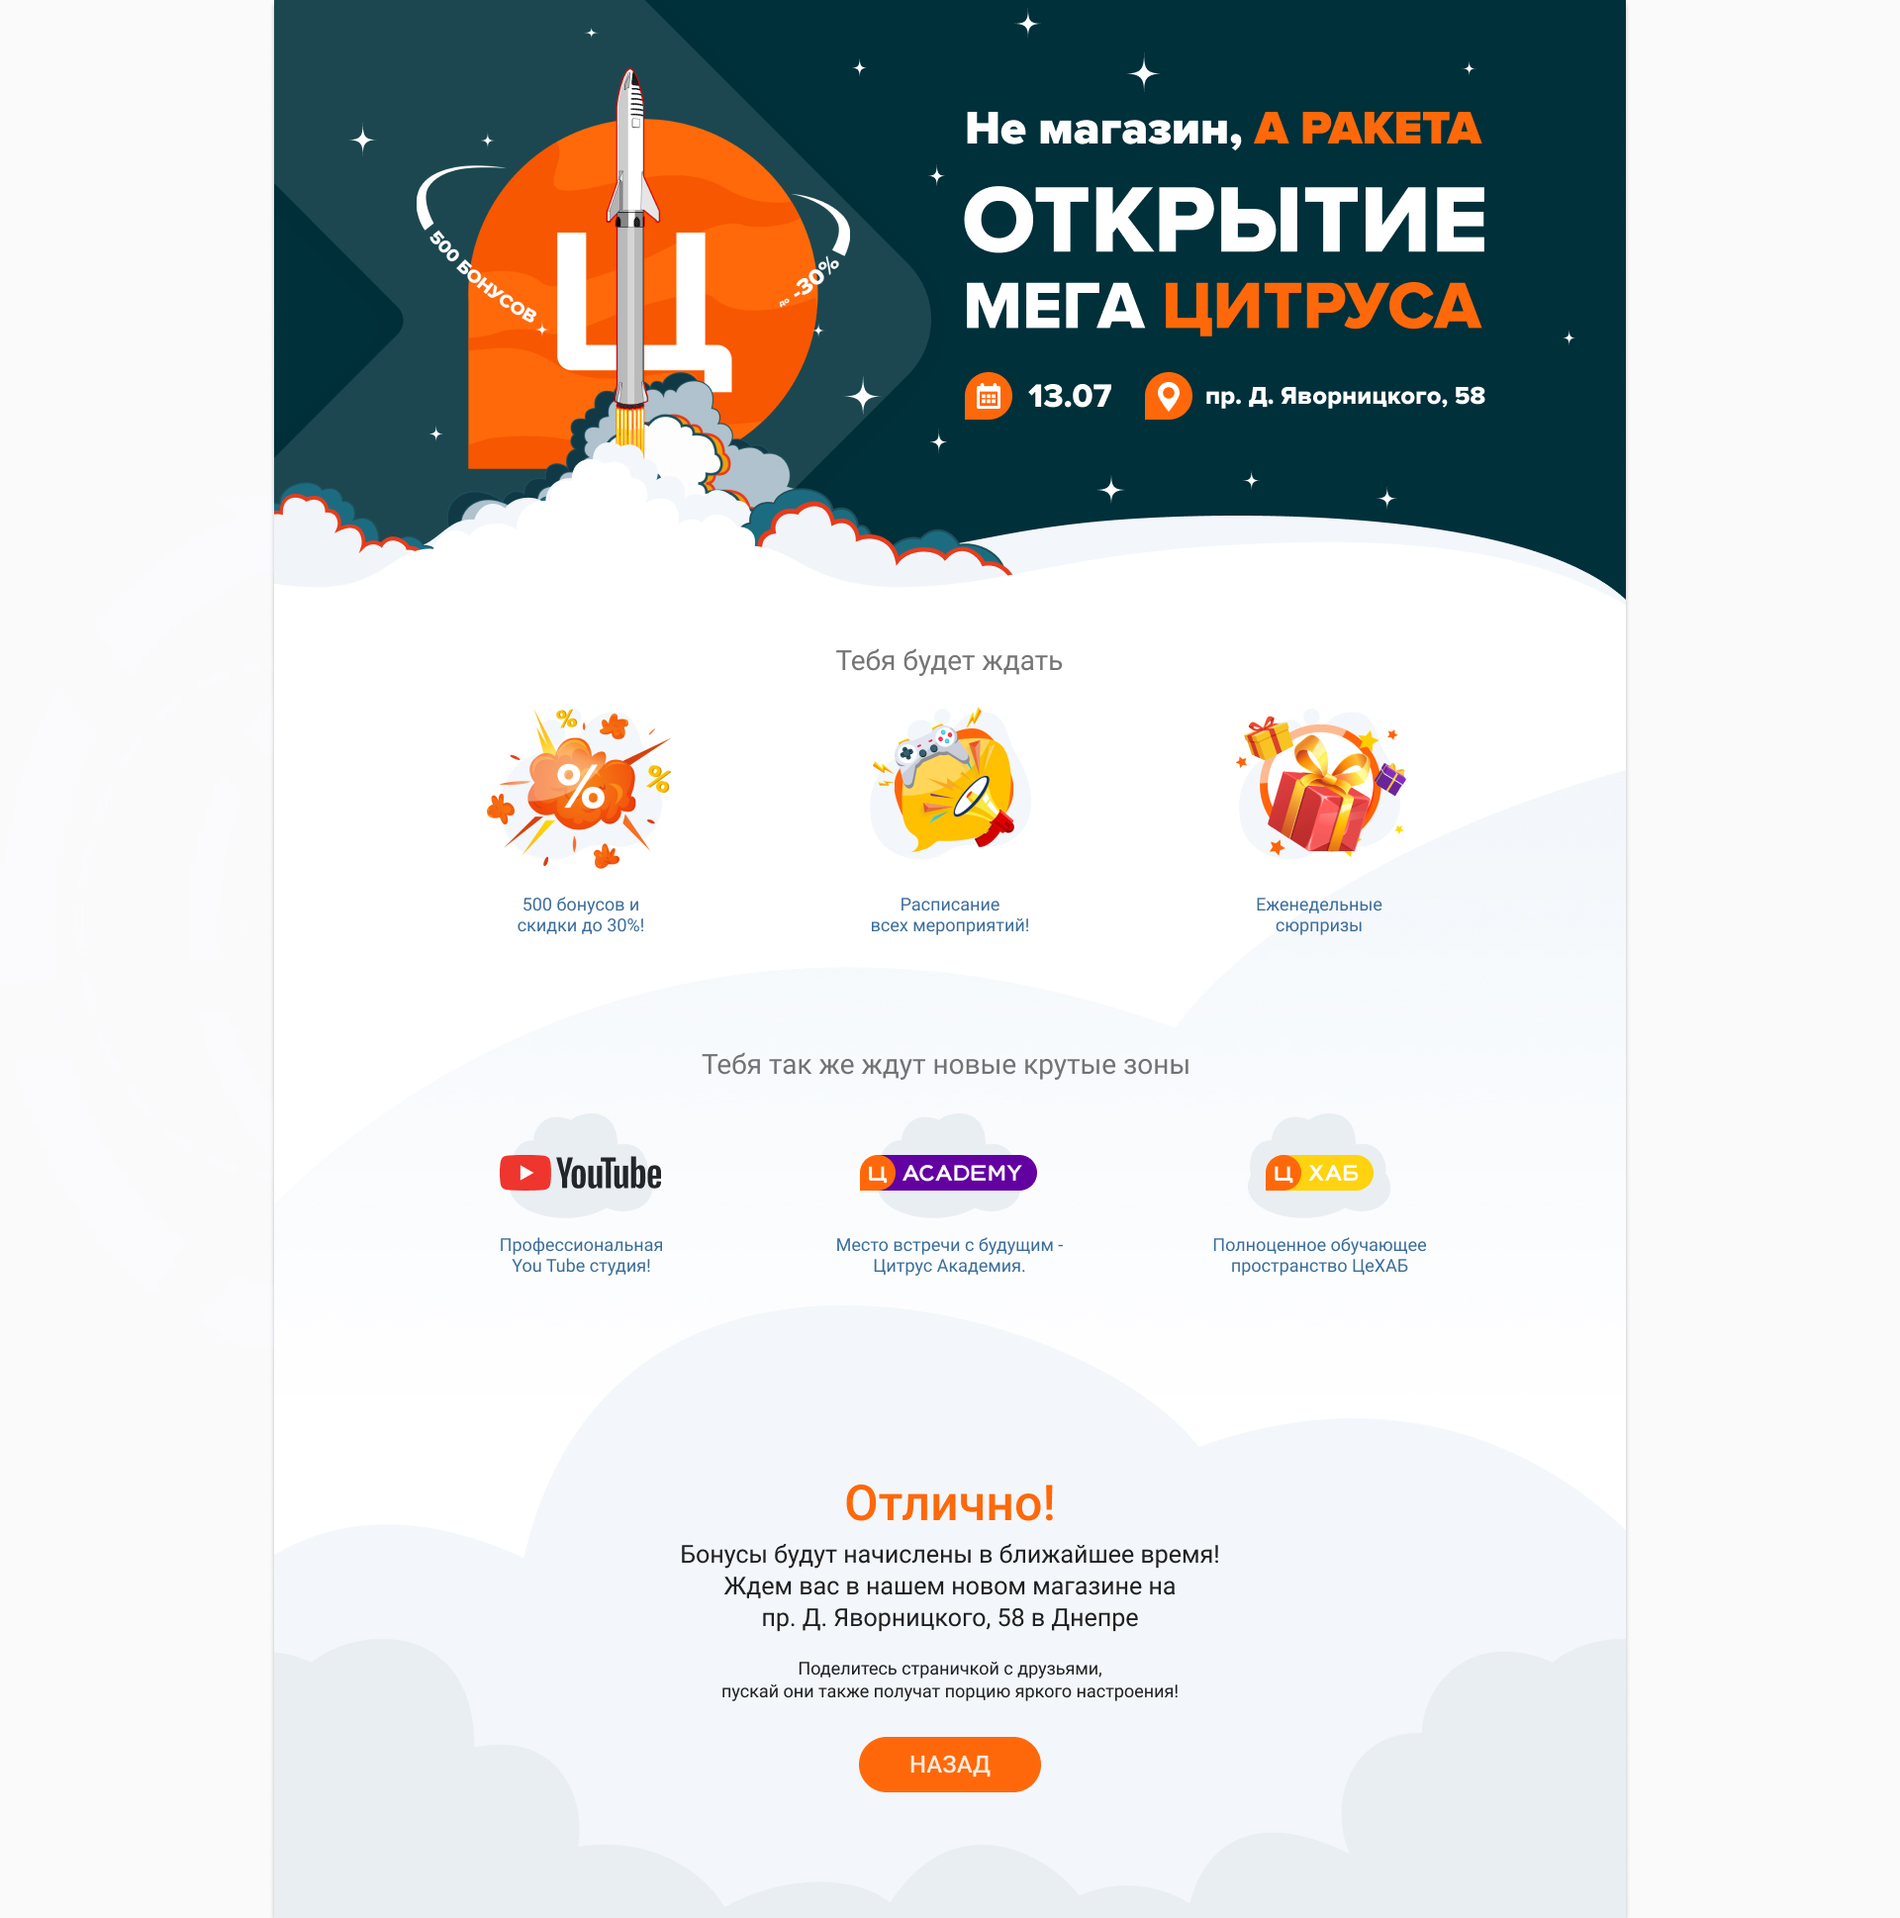
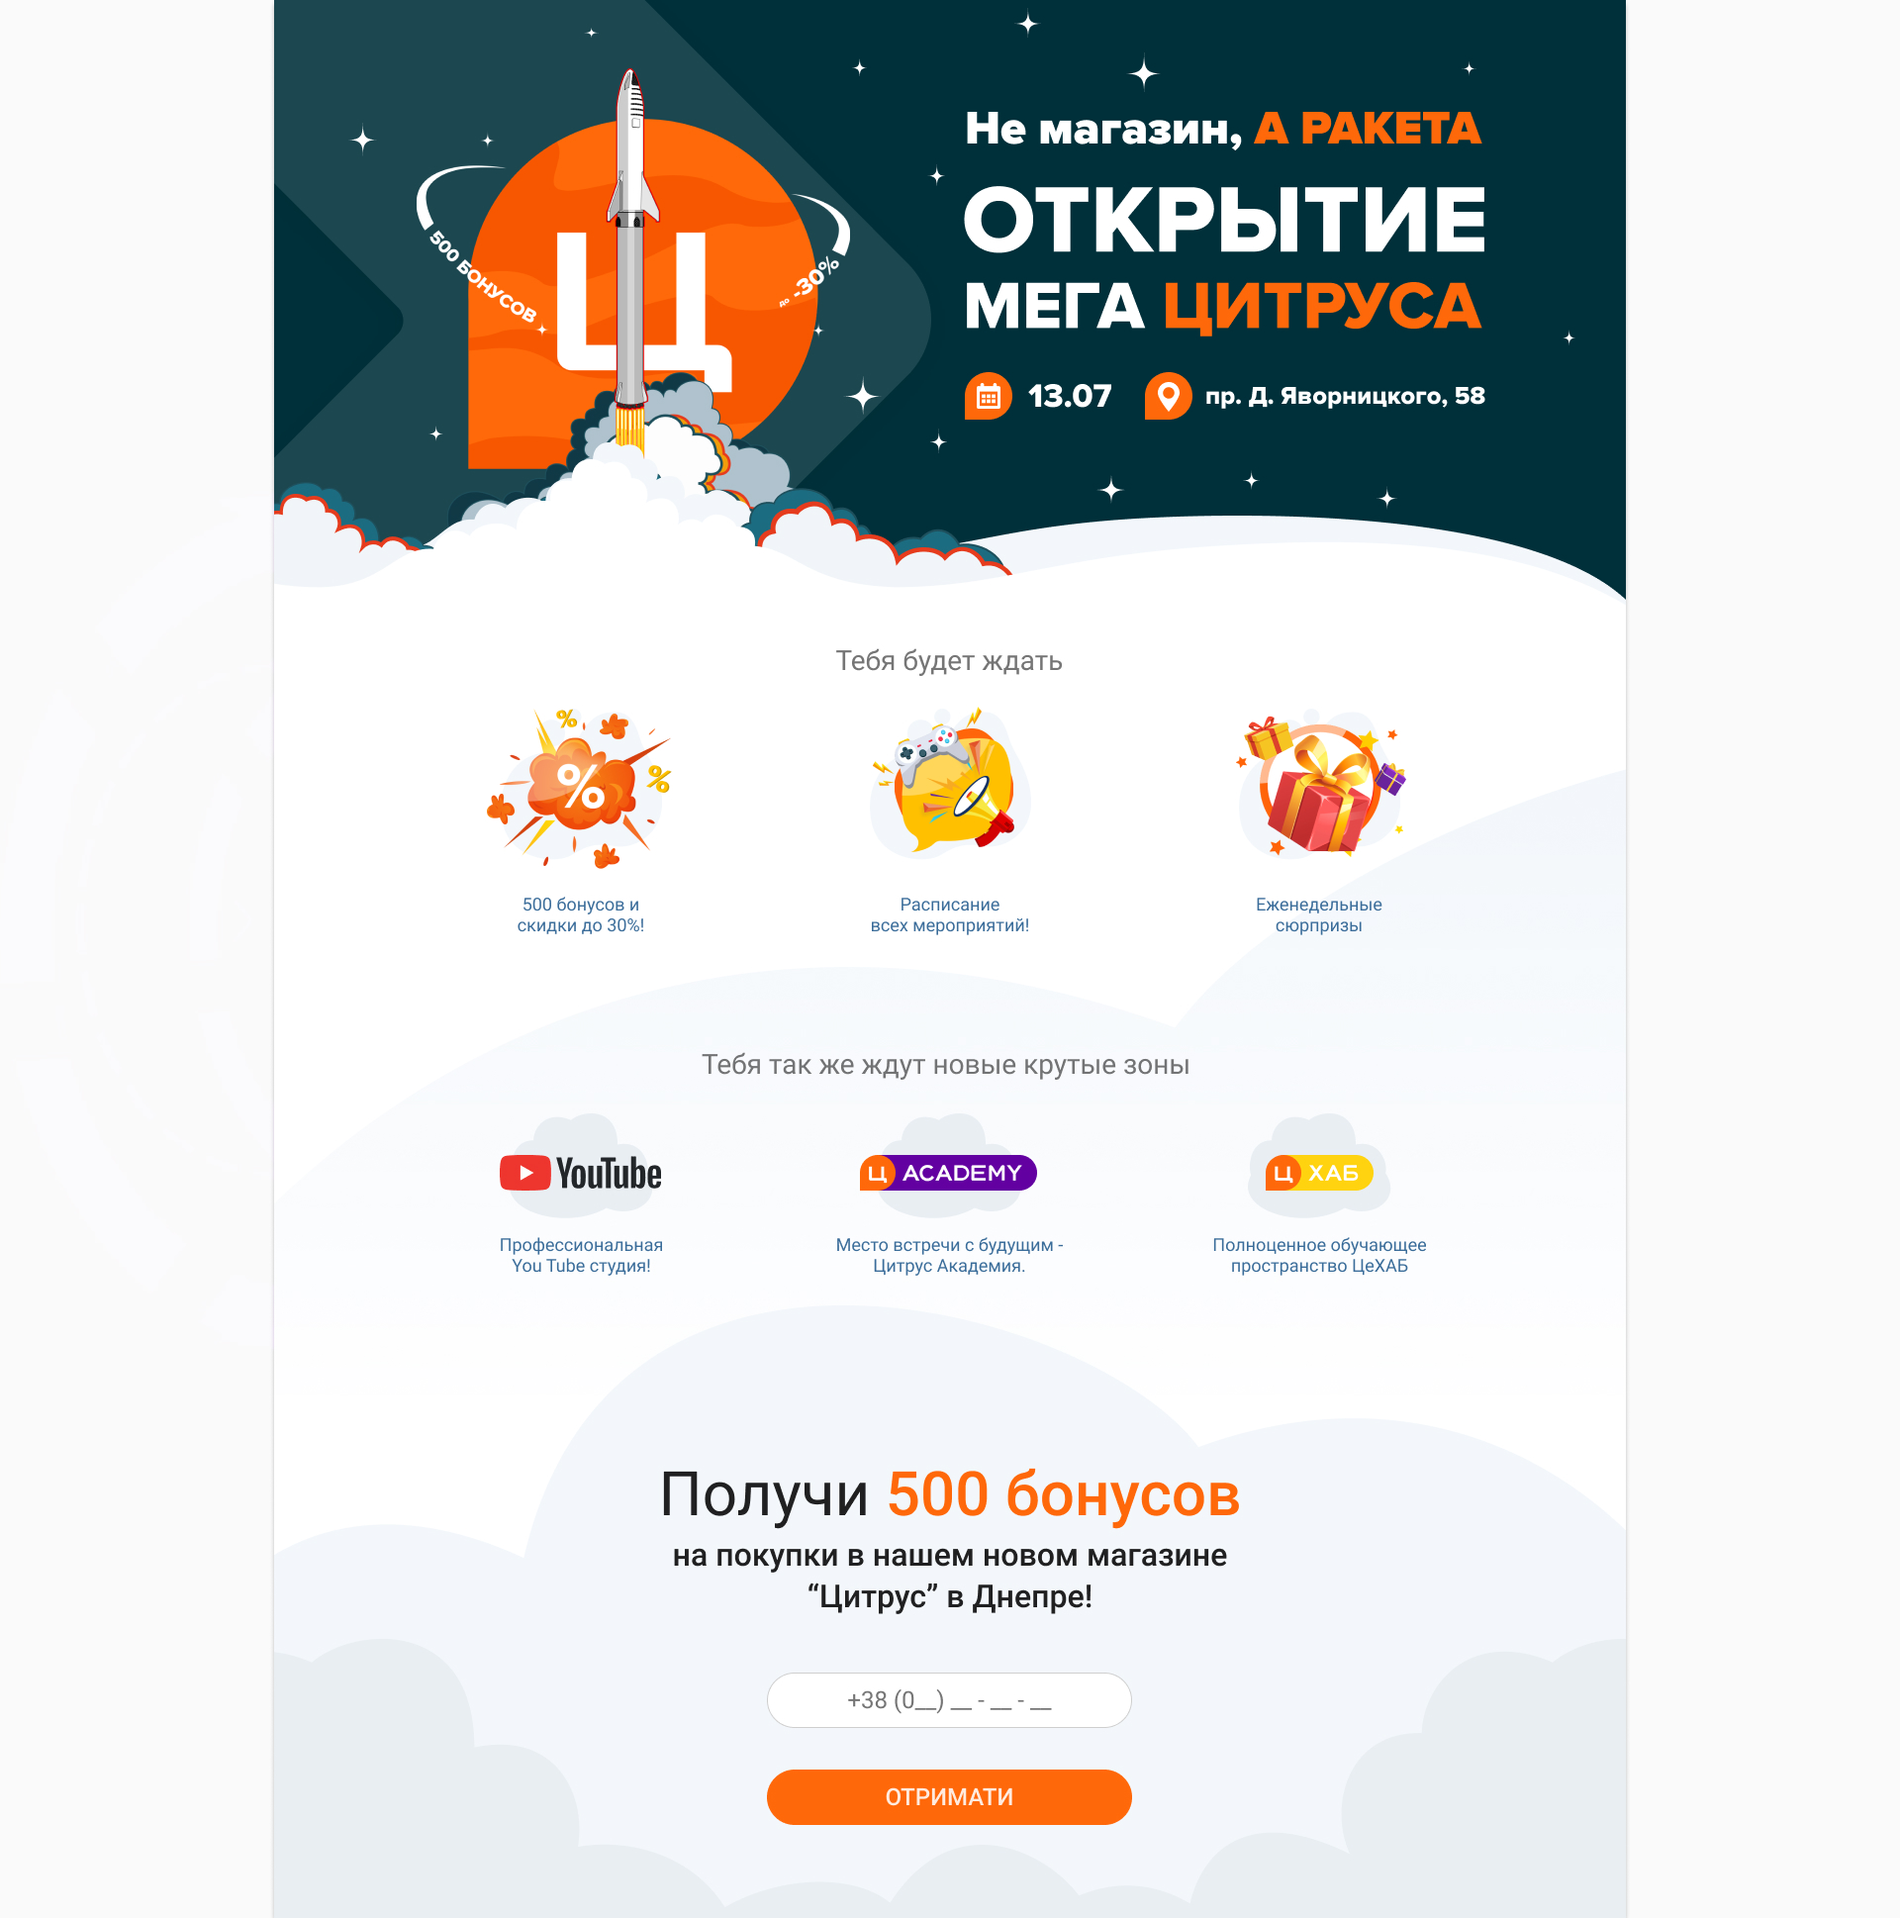
code updated

Changed region(s): [[0.3438, 0.743, 0.6562, 0.9598]]

diff --git a/src/template.html b/src/template.html
@@ -5,13 +5,15 @@
     <meta charset="UTF-8" />
     <title>Открытие Мега Цитруса</title>
     <link rel="stylesheet" href="https://cdnjs.cloudflare.com/ajax/libs/normalize/8.0.1/normalize.css" />
+    <link rel="preconnect" href="https://fonts.gstatic.com">
+    <link href="https://fonts.googleapis.com/css2?family=Roboto:wght@400;500;700&display=swap" rel="stylesheet">
     <meta name="viewport" content="width=device-width, initial-scale=1.0" />
 </head>
 
 <body>
     <div class="wrapper">
-        <img src="/src/images/main_img.jpg" alt="Открытие Мега Цитруса в Днепре" class="main_img" />
-        <main class="features">
+        <img src="/src/images/main_img.jpg" alt="Открытие Мега Цитруса в Днепре" />
+        <main>
             <div class="features_block features_block_top ">
                 <h2 class="features_block_title">Тебя будет ждать</h2>
                 <div class="features_links_wrapper">
@@ -29,49 +31,47 @@
                     </div>
                 </div>
             </div>
-            <div class="features_block features_block_bottom" >
+            <div class="features_block features_block_bottom">
                 <h2 class="features_block_title">Тебя так же ждут новые крутые зоны</h2>
                 <div class="features_links_wrapper">
                     <div class="features_link">
                         <img src="/src/images/yt.png" alt="YouTube" class="logo" />
-                        <img src="/src/images/sky.png" alt="Облако" class="" />
+                        <img src="/src/images/sky.png" alt="Облако" class="sky" />
                         <a href="#" class="link">Профессиональная<br />You Tube студия!</a>
                     </div>
                     <div class="features_link">
                         <img src="/src/images/logo_academy_new.png" alt="Цитрус академия" class="logo" />
-                        <img src="/src/images/sky.png" alt="Облако" class="" />
+                        <img src="/src/images/sky.png" alt="Облако" class="sky" />
                         <a href="#" class="link">Место встречи с будущим -<br />Цитрус Академия.</a>
                     </div>
                     <div class="features_link">
                         <img src="/src/images/logo_cehab_new.png" alt="Цитрус Хаб" class="logo" />
-                        <img src="/src/images/sky.png" alt="Облако" class="" />
+                        <img src="/src/images/sky.png" alt="Облако" class="sky" />
                         <a href="#" class="link">Полноценное обучающее<br />пространство ЦеХАБ</a>
                     </div>
                 </div>
             </div>
         </main>
-       <!--  <form class="">
-            <label class="">
-                <p class=""> Получи <span class="">500 бонусов</span>
-                </p>
-                <p class="">на покупки в нашем новом магазине<br />&#8220;Цитрус&#8221; в Днепре!
-                </p>
+        <form class="footer" style="display: none;">
+            <label>
+                <p class="form_text"> Получи <span class="form_text_bonus">500 бонусов</span></p>
+                <p class="form_text">на покупки в нашем новом магазине<br>&#8220;Цитрус&#8221; в Днепре!</p>
             </label>
-            <input type="tel" placeholder="+38 (0__) __ - __ - __" required />
-            <button type="button">Отримати</button>
+            <input type="tel" placeholder="+38 (0__) __ - __ - __" required class="form_input" />
+            <button type="button" class="form_button_send">Отримати</button>
         </form>
-        <div class="" style="display: none">
-            <p class="">Отлично!</p>
-            <p class="">
-                Бонусы будут начислены в ближайшее время! Ждем вас в нашем новом
-                магазине на пр. Д. Яворницкого, 58 в Днепре
+        <div class="footer thanks">
+            <p class="form_text form_text_bonus">Отлично!</p>
+            <p class="form_text">
+                Бонусы будут начислены в ближайшее время! <br> Ждем вас в нашем новом
+                магазине на <br> пр. Д. Яворницкого, 58 в Днепре
             </p>
-            <p>
-                Поделитесь страничкой с друзьями, пускай они также получат порцию
+            <p class="share">
+                Поделитесь страничкой с друзьями,<br> пускай они также получат порцию
                 яркого настроения!
             </p>
-            <button type="button" class="">Назад</button>
-        </div> -->
+            <button type="button" class="form_button_back">Назад</button>
+        </div>
     </div>
 </body>
 

diff --git a/src/style.scss b/src/style.scss
@@ -39,9 +39,6 @@ html {
         display: flex;
         flex-direction: column;
         align-items: center;
-        & img {
-          margin-bottom: 16px;
-        }
 
         .link {
           font-family: Roboto, sans-serif;
@@ -60,19 +57,138 @@ html {
   .features_block_top {
     padding-top: 35px;
     margin-bottom: 114px;
+    & img {
+      margin-bottom: 17px;
+    }
   }
 
   .features_block_bottom {
     padding-left: 26px;
-    & .features_link:first-child{
-        margin-right: 20px;
+    & .features_link:first-child {
+      margin-right: 25px;
     }
     .features_block_title {
       margin-bottom: 33px;
+      padding-right: 35px;
     }
     .logo {
       position: absolute;
-        top: 26%;
+      top: 25%;
+    }
+
+    .sky {
+      margin-bottom: 16px;
+    }
+  }
+
+  & main {
+    margin-bottom: 180px;
+  }
+
+  .footer {
+    display: flex;
+    flex-direction: column;
+    align-items: center;
+
+    & label {
+      margin-bottom: 56px;
+    }
+
+    .form_text {
+      font-family: Roboto, sans-serif;
+      font-style: normal;
+      font-weight: normal;
+      font-size: 62px;
+      line-height: 130%;
+      text-align: center;
+      color: rgba(0, 0, 0, 0.87);
+
+      .form_text_bonus {
+        color: #ff680a;
+        font-weight: 500;
+      }
+    }
+
+    & p:last-child {
+      font-size: 32px;
+      font-weight: 500;
+      line-height: 132%;
+    }
+
+    .form_input {
+      border-radius: 50px;
+      max-width: 369px;
+      width: 100%;
+      background: #ffffff;
+      border: 1px solid #cfcfcf;
+      padding: 13px 0;
+      margin-bottom: 42px;
+      font-family: Roboto, sans-serif;
+      font-style: normal;
+      font-weight: normal;
+      font-size: 24px;
+      line-height: 28px;
+      text-align: center;
+      color: rgba(0, 0, 0, 0.54);
+    }
+
+    .form_button_send {
+      background: #ff680a;
+      border: none;
+      border-radius: 50px;
+      max-width: 369px;
+      width: 100%;
+      font-family: Roboto, sans-serif;
+      font-style: normal;
+      font-weight: 500;
+      font-size: 24px;
+      line-height: 28px;
+      text-align: center;
+      text-transform: uppercase;
+      color: rgba(255, 255, 255, 0.87);
+      padding: 14px 0;
+    }
+  }
+
+  .thanks {
+    padding-top: 16px;
+
+    & .form_text {
+      font-family: Roboto;
+      font-style: normal;
+      font-weight: normal;
+      font-size: 25px;
+      line-height: 130%;
+      text-align: center;
+      color: rgba(0, 0, 0, 0.87);
+    }
+
+    & .form_text:first-child {
+      margin-bottom: 3px;
+    }
+
+    & .form_text:last-child {
+      margin-bottom: 25px;
+    }
+
+    & .form_text_bonus {
+      font-family: Roboto;
+      font-style: normal;
+      font-weight: 500;
+      font-size: 50px;
+      line-height: 130%;
+      text-align: center;
+      color: #ff680a;
+    }
+
+    .share {
+      font-family: Roboto;
+      font-style: normal;
+      font-weight: normal;
+      font-size: 18px;
+      line-height: 130%;
+      text-align: center;
+      color: rgba(0, 0, 0, 0.87);
     }
   }
 }
